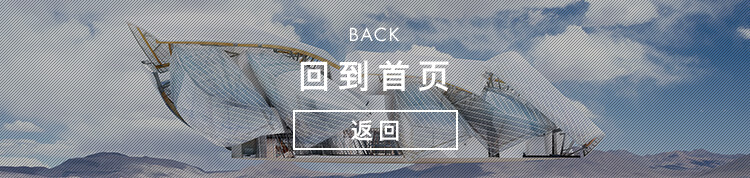
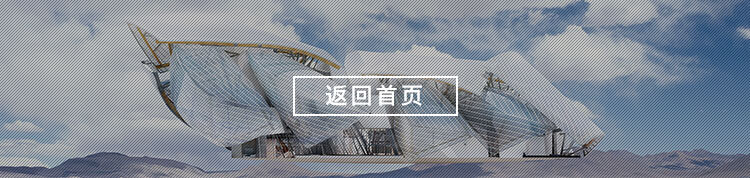
chapter 修改

diff --git a/src/LV/Bundle/FondationBundle/Resources/public/css/style.css b/src/LV/Bundle/FondationBundle/Resources/public/css/style.css
@@ -1746,8 +1746,8 @@ html,body,#dreambox{
 .backBtn{
 	width: 20%;
 	position: absolute;
-	left: 6%;
-	top: 5em;
+	left: 4%;
+	top: 3em;
 	font-size: 14px;
 	color: #363533;
 	z-index: 100;
@@ -1760,6 +1760,9 @@ html,body,#dreambox{
 	display: inline-block;
 }
 
+.backBtn.white{
+	color: #fff;
+}
 
 
 
